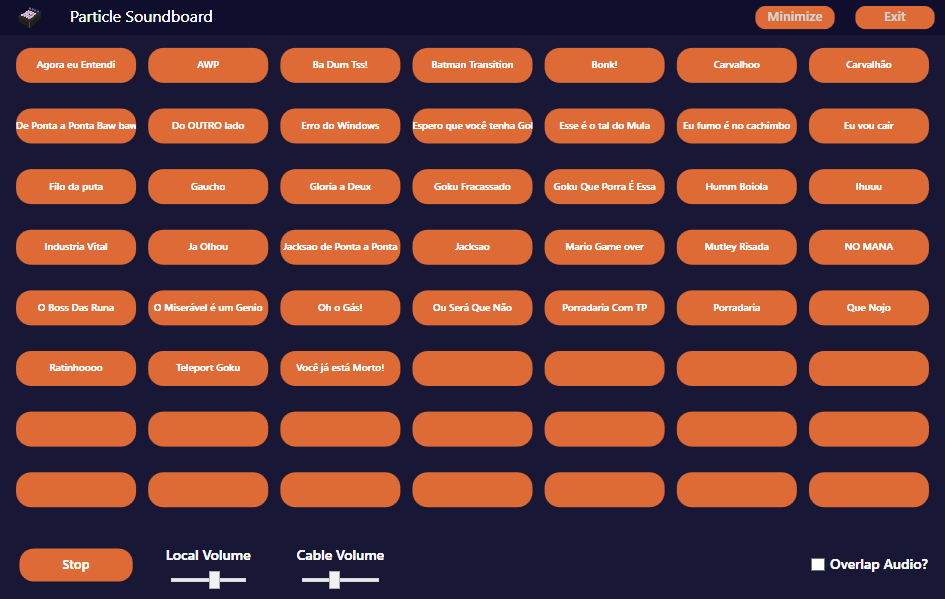
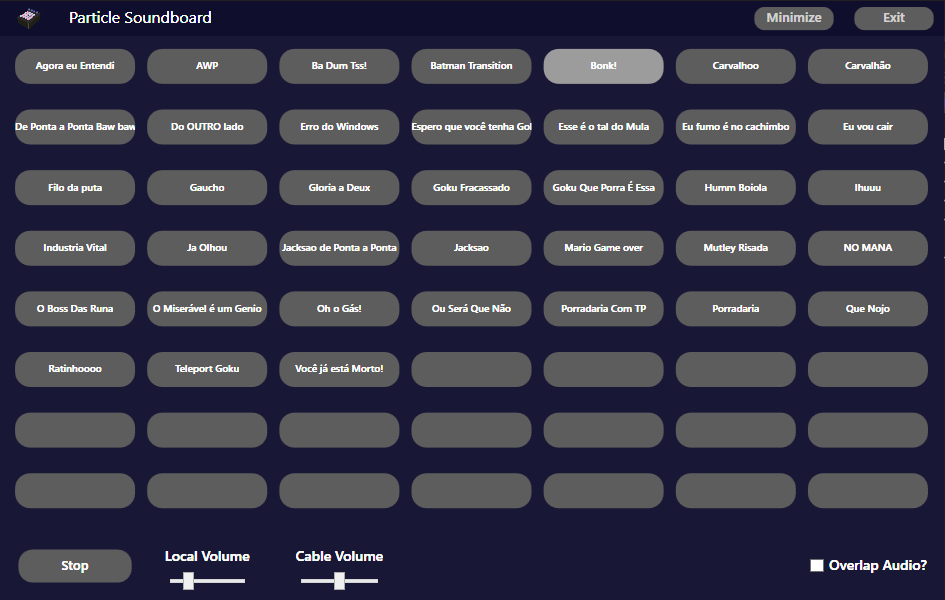
Changed button colors and updated Description Image.

diff --git a/ParticleSoundboard/MainWindow.xaml b/ParticleSoundboard/MainWindow.xaml
@@ -388,7 +388,7 @@
                 <Setter Property="TextElement.FontFamily"
                         Value="#Dosis" />
                 <Setter Property="Background" 
-                        Value="#FFDE6B36" />
+                        Value="#FF5D5D5D" />
                 <Setter Property="Cursor" 
                         Value="Hand" /> 
                 <Setter Property="Margin" 
@@ -421,7 +421,7 @@
                     <Trigger Property="IsMouseOver" 
                              Value="True">
                         <Setter Property="Background"
-                                Value="#E39063" />
+                                Value="#FF9C9C9C" />
                     </Trigger>
                 </Style.Triggers>
             </Style>
